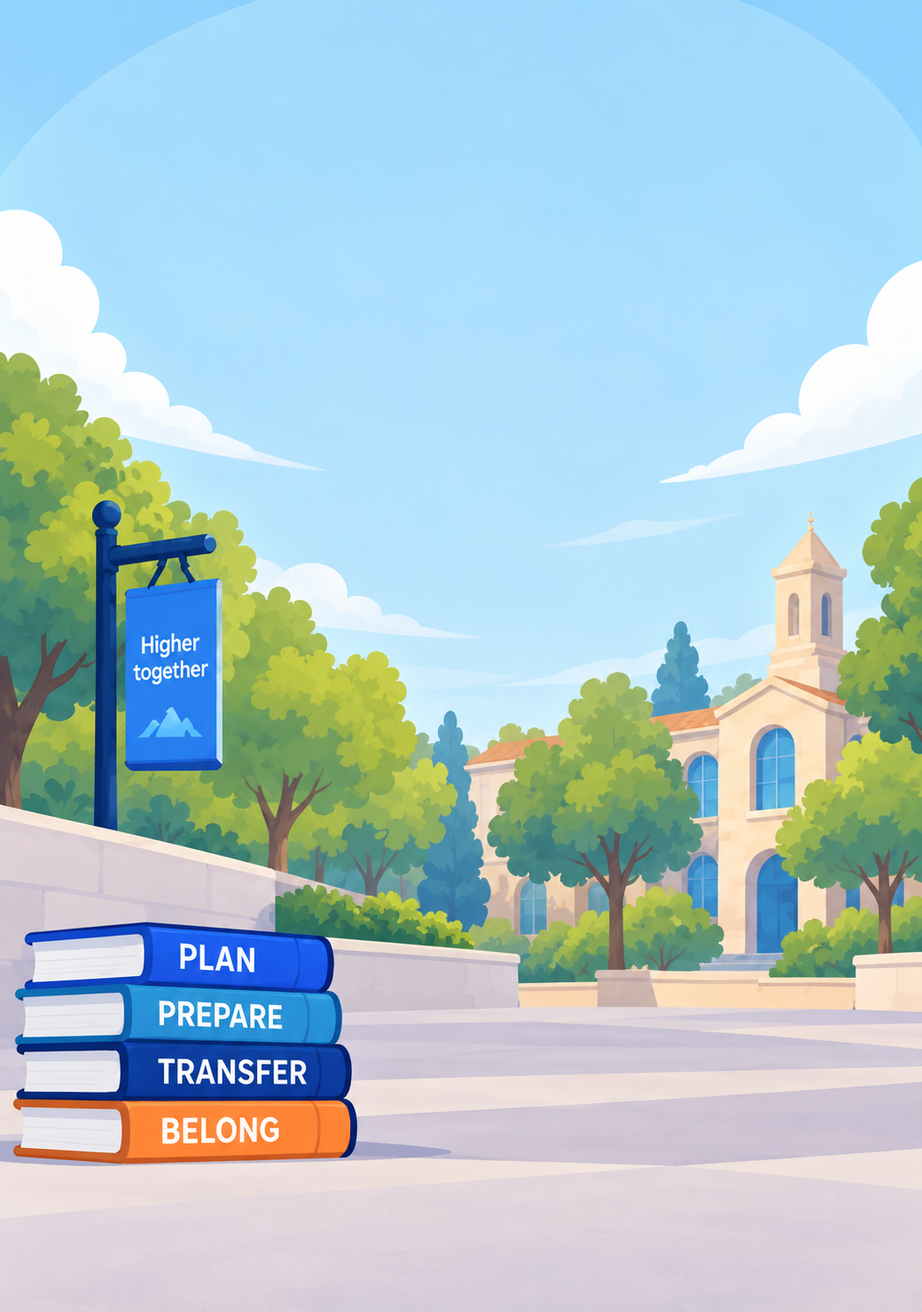
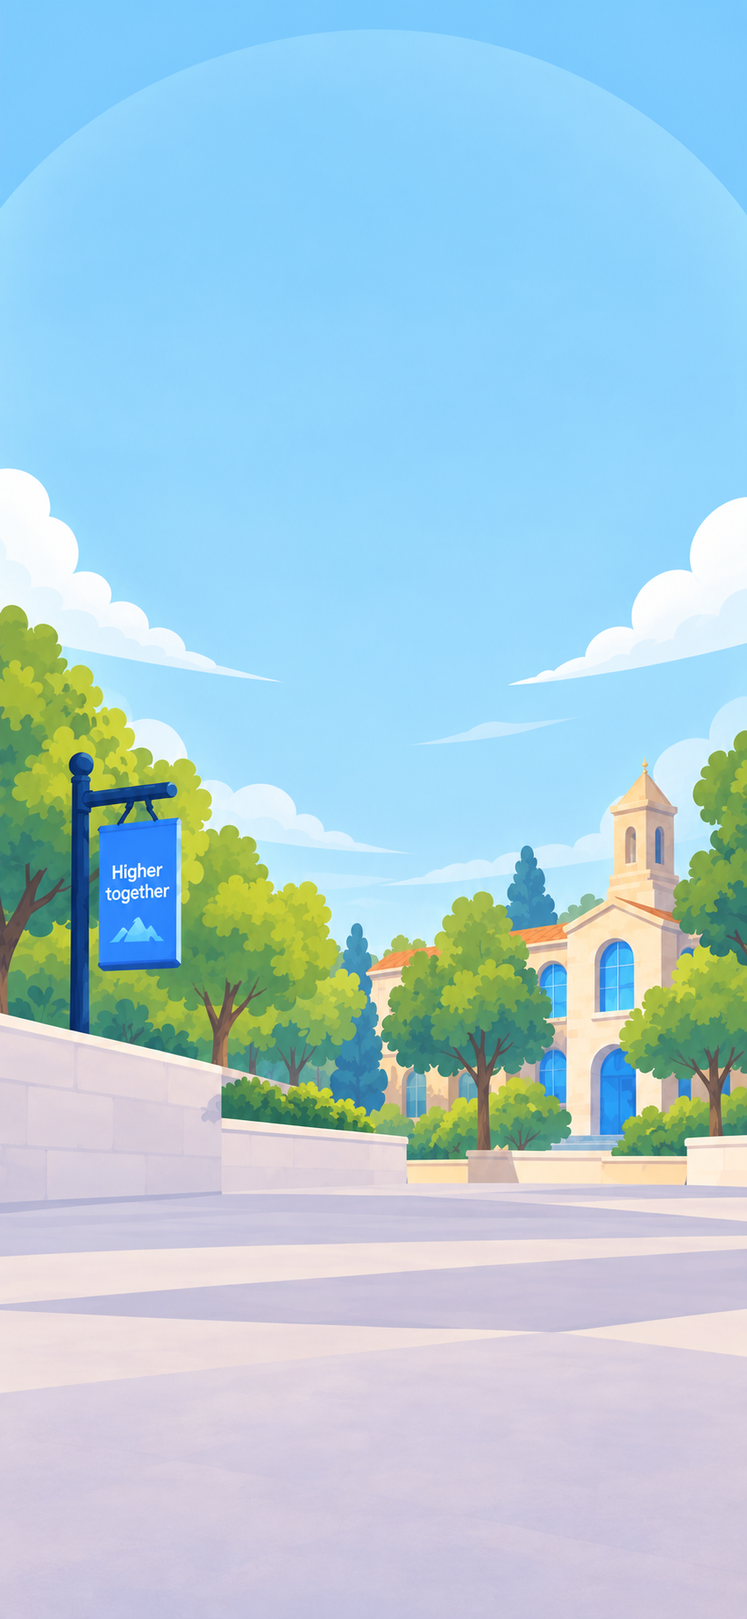
Add rev 2 specs, welcome reference, and new welcome and forgot-password art

diff --git a/docs/specs/01-welcome.md b/docs/specs/01-welcome.md
@@ -15,24 +15,26 @@ Mockup: panel 1 of `../mockup/mockup-4-screens.png`.
 
 ## Layout
 
+Rev 2 (September 2026): the team's full-screen reference (`../mockup/welcome-reference.png`) replaces panel 1 as the target. The campus scene fills the whole screen, and the book stack sits in front of the husky's left side, fully above the button.
+
 ```
-┌───────────────────────────────┐  safe-area top
-│ Demo data                     │  24 strip
+┌───────────────────────────────┐  scene art fills the whole screen,
+│ Demo data                     │  sky painted in, from the very top
 │                               │  24
-│           stackd              │  wordmark, 252 wide, centered
-│           ‿‿‿‿                │
-│                               │  40
+│           stackd              │  wordmark 252 wide, centered
+│           ‿‿‿‿                │  40
 │     Transfer plans,           │  display 38/42, centered
-│      made simple.             │
-│                               │  12
+│      made simple.             │  12
 │   Clear steps, real support,  │  body-lg 18/24, centered
 │  and everything you need…     │
-│                               │
-│  [ full-bleed scene art:      │  anchored to bottom,
-│    campus, sign, husky,       │  behind everything below
-│    book stack ]               │
-│                               │
-│ ░░░░░░░ bottom scrim ░░░░░░░  │
+│                               │  ≥ 16
+│  ▐banner    ╭─husky──╮  🏛    │  husky: bottom on the husky line,
+│  ▐          │        │        │  centered at 54% of the width
+│ ┌books┐     │        │        │  books: in front of the husky,
+│ │PLAN  │────┤        │        │  flush left, bottom on the ground line
+│ │PREPARE│   ╰────────╯        │
+│ │TRANSFER│                    │  books bottom = ground line
+│ │BELONG │                     │  24
 │ (       Get started      >)   │  56, margins 16
 │ Unofficial planning tool. Not │  12/16, 8 below CTA
 │ affiliated with UC, CSU, …    │
@@ -41,17 +43,30 @@ Mockup: panel 1 of `../mockup/mockup-4-screens.png`.
 
 Alignment: everything is centered on the vertical axis. This is the only centered screen in the baseline.
 
+### Two lines everything sits on
+
+- **Ground line** = CTA top − 24. The bottom edge of the book stack sits on it.
+- **Husky line** = ground line − 24. The husky's bottom edge sits on it. (In the reference, the husky's paws sit a little behind and above the front edge of the books.)
+
+At 393 × 852: CTA top 710, ground line 686, husky line 662.
+
 ## Layers, back to front
 
-1. **Background**: `linear-gradient(180deg, var(--sky-200) 0%, var(--sky-100) 45%, var(--sky-50) 100%)`, full screen including under the status bar.
-2. **Scene art** (`welcome-scene`): `position: absolute; left: 0; right: 0; bottom: 0; width: 100%; height: 560px; object-fit: cover; object-position: center bottom;`. On viewports shorter than 760, height is `calc(100dvh - 300px)`, minimum 360.
-3. **Husky** (`husky-welcome`): a separate image so it can animate later. It sits in a zone between the text and the bottom stack, and shrinks to fit that zone, so it never goes behind the text. The mockup has no status bar, so at full size it would overlap the body text on a real phone.
-   - **Zone**: from 16 below the body text down to 176 + safe-area bottom above the bottom edge. Build it as a `flex: 1; min-height: 0` item in the page's column, with `padding-bottom: calc(176px + env(safe-area-inset-bottom))`.
-   - **Husky**: `height: min(380px, 100%)`, `width: auto`, aligned to the zone's bottom, centered with translateX(-5%) (slightly left of center, as drawn, in front of the book stack).
-   - At 393 × 852 the zone is about 265 tall, so the husky renders about 265 × 209. At 430 × 932 it's about 330 tall.
-   - If the zone is under 160 tall (small phones like 320 × 568), hide the husky. The scene art still shows. Use a container query (`container-type: size` on the zone, `@container (max-height: 159px)`).
-4. **Bottom scrim**: `position: absolute; bottom: 0; height: calc(152px + env(safe-area-inset-bottom)); background: linear-gradient(180deg, rgba(234,246,254,0) 0%, rgba(234,246,254,.92) 48px);`. The mockup has no scrim. It's needed because the disclaimer line sits over art. Minimal deviation.
-5. **Content column**: the text at the top and the CTA stack at the bottom.
+1. **Page background**: `--sky-100`, full screen. It only shows while the scene art is loading or if it fails.
+2. **Scene art** (`welcome-scene`): fills the whole screen, including under the status bar. `position: fixed; inset: 0; width: 100%; height: 100%; object-fit: cover; object-position: center bottom;`. The sky is painted into the art, so there is no CSS gradient over it and no seam.
+3. **Husky** (`husky-welcome`): a separate image so it can animate later.
+   - **Zone**: from 16 below the body text down to the husky line. Build it as a `flex: 1; min-height: 0` item in the page's column.
+   - **Size**: `height: min(350px, 100%)`, `width: auto`. At 393 × 852 the zone is about 285 tall, so the husky renders about 285 × 225.
+   - **Position**: bottom edge on the husky line, horizontal center at 54% of the screen width.
+   - If the zone is under 160 tall (small phones like 320 × 568), hide the husky and the books. The scene still shows. Use a container query (`container-type: size` on the zone, `@container (max-height: 159px)`).
+4. **Books** (`welcome-books`): in front of the husky, so the stack covers the husky's left side as drawn.
+   - **Size**: height = the husky's rendered height × 0.38, `width: auto`. At 393 × 852 that's about 108 tall × 126 wide.
+   - **Position**: `left: 0` (the stack runs off the left edge, as drawn), bottom edge on the ground line.
+   - At 393 × 852 the stack's right edge lands about 26 over the husky's left edge. Don't force that number; it comes from the sizes above.
+5. **Bottom scrim**: `position: fixed; bottom: 0; height: calc(64px + env(safe-area-inset-bottom)); background: linear-gradient(180deg, rgba(234,246,254,0) 0%, rgba(234,246,254,.92) 24px);`. It sits under the footer line only, so the disclaimer stays readable over the art. It must not reach the books.
+6. **Content column**: the text at the top and the CTA stack at the bottom.
+
+**Until the rev 2 art exists:** if `welcome-books.png` is missing, the books are whatever is painted into the current scene, and they can't sit in front of the husky. That's expected until the art is re-exported (see `art-assets.md`).
 
 ## Content
 
@@ -60,28 +75,31 @@ Alignment: everything is centered on the vertical axis. This is the only centere
 | Wordmark | `wordmark.svg`, width 252, height auto (~70), top = safe-area top + 24 + 24 (after the demo strip). `role="img"`, `aria-label="Stackd"` |
 | Headline | "Transfer plans, made simple." `display`, `--navy-900`, max-width 320, 40 below the wordmark. Break after "plans," (`<br>` at ≥ 360 wide, natural wrap below that) |
 | Body | "Clear steps, real support, and everything you need to go further." `body-lg`, `--navy-900`, max-width 320, 12 below the headline |
-| CTA | Primary button "Get started" with trailing chevron. Bottom = safe-area bottom + 12 + 16 (footer line) + 8. Navigates to `/sign-up` (`07-create-account.md`) with a 200 ms crossfade |
+| CTA | Primary button "Get started" with trailing chevron. Bottom = safe-area bottom + 12 + footer line height (32 when it wraps to two lines) + 8. Navigates to `/sign-up` (`07-create-account.md`) with a 200 ms crossfade |
 | Footer line | Unofficial footer (see 00), 8 below the CTA |
 
-The book stack labels (PLAN / PREPARE / TRANSFER / BELONG) and the "Higher together" sign are part of the scene art, not live text. All-caps is banned in UI text, but the ban doesn't apply inside illustrations.
+The book stack labels (PLAN / PREPARE / TRANSFER / BELONG) and the "Higher together" sign are part of the art, not live text. All-caps is banned in UI text, but the ban doesn't apply inside illustrations.
 
 ## States
 
-- **Art not loaded**: the gradient shows alone, and text and CTA are fully usable. No spinner. Images use `next/image` with `priority` and `placeholder="empty"`.
+- **Art not loaded**: the `--sky-100` background shows alone, and text and CTA are fully usable. No spinner. Images use `next/image` with `priority` and `placeholder="empty"`.
 - **CTA pressed / focus**: per 00.
 
 ## Motion
 
-One non-triggered moment is allowed on this screen: after the art loads, the husky layer fades from 0 to 1 and moves translateY 12 → 0 over 320 ms `--ease-out`, 120 ms after the scene appears. Nothing else moves on load. Under reduced motion it simply appears.
+One non-triggered moment is allowed on this screen: after the art loads, the husky and books fade together from 0 to 1 and moves translateY 12 → 0 over 320 ms `--ease-out`, 120 ms after the scene appears. Nothing else moves on load. Under reduced motion it simply appears.
 
 ## Accessibility
 
-Reading order: wordmark, headline (`h1`), body, CTA, footer line. The scene and husky have `alt=""`, since they're decorative and the headline carries the meaning.
+Reading order: wordmark, headline (`h1`), body, CTA, footer line. The scene, husky, and books have `alt=""`, since they're decorative and the headline carries the meaning.
 
 ## Test
 
-- At 320 × 568 (iPhone SE 1st gen), headline, body, CTA, and footer line don't overlap, the scene art shrinks, and the husky is hidden.
-- At 393 × 852 the husky's top edge is at least 16 below the body text.
-- At 430 × 932, the art stays anchored to the bottom with no gap under it.
+- At 393 × 852 the scene covers the whole screen, top to bottom, with no band of plain gradient anywhere.
+- At 393 × 852 the whole book stack is visible above the button, with about 24 between the stack and the button.
+- The book stack is in front of the husky and covers part of its left side.
+- The husky's top edge is at least 16 below the body text.
+- At 320 × 568, headline, body, CTA, and footer line don't overlap, and the husky and books are hidden.
+- At 430 × 932, the scene still covers the whole screen.
 - The CTA's bottom edge sits at least 12 above the home indicator.
-- Deleting `welcome-scene` leaves a working screen.
+- Deleting `welcome-scene` leaves a working screen on `--sky-100`.

diff --git a/docs/specs/art-assets.md b/docs/specs/art-assets.md
@@ -26,7 +26,7 @@ Priority key:
 
 | ID | What | Used in | Display size | Deliver | Status | Priority |
 |---|---|---|---|---|---|---|
-| `wordmark` | "stackd" lettering + blue swoosh under it. Navy `#051042`, swoosh `#0364FA` | Welcome (252 wide), Home header (100), Celebration (70) | Aspect ~3.6:1 | One SVG. It must read cleanly at 70 wide. If the swoosh disappears at that size, add a `wordmark-small.svg` with a thicker swoosh | Have (flat) | Demo |
+| `wordmark` | "stackd" lettering + blue swoosh under it. Navy `#051042`, swoosh `#0364FA` | Welcome (252 wide), Sign in and Create account (100), Home header (100), Celebration (70) | Aspect ~3.6:1 once trimmed | One SVG, or a PNG with every fully transparent row and column trimmed off the edges (the art itself untouched). It must read cleanly at 70 wide | Have: `wordmark.png`, 2.8:1 with extra transparent edge, needs trimming | Demo |
 | `app-icon` | Square icon for the installable PWA. Probably the husky head or an "s" mark | Home screen, PWA install | 1024 × 1024 master | PNG master + a `maskable` version with all content inside the center 80% circle | Need | Later (before the first real user installs it) |
 | `favicon` | Simplified mark | Browser tab | 32 | SVG | Need | Later |
 
@@ -37,9 +37,10 @@ The run frames show the character drifts off-model when each pose is generated s
 | ID | What | Used in | Display size | Deliver | Status | Priority |
 |---|---|---|---|---|---|---|
 | `husky-model-sheet` | Reference, not shipped. Front, ¾, side, back. Face markings, ear shapes, hoodie with "S", backpack, tail. Color swatches (fur greys, hoodie `#0364FA` family, outline weight) | All husky art | n/a | PNG or PDF | Need | Demo (before new poses) |
-| `husky-welcome` | Sitting, big open smile, backpack. As drawn on the welcome screen, **without** the book stack, sign, or campus (those are scene layers) | 01 Welcome | 300 × ~380 | PNG 900 × 1140 | Have (flat) | Demo |
+| `husky-welcome` | Sitting, big open smile, backpack, yellow burst marks by its head. **Without** the book stack, sign, or campus | 01 Welcome | up to 276 × 350 | PNG 900 × 1140, transparent | Have | Demo |
+| `husky-forgot` | Upper body like `husky-wave`, head tilted, holding a small key or scratching its head. Bottom edge cut straight across the chest. Same canvas as `husky-wave` so it drops into the same spot | 08 Forgot password | 144 × ~152 | PNG 528 × 558, transparent | Need (uses `husky-wave` until then) | Demo |
 | `husky-home` | Bust, winking, fist raised, hoodie. The **bottom edge cut straight** across the chest (the journey card covers it). No yellow sparkle marks (those are `burst-dashes`) | 02 Home | 160 × ~140 | PNG 480 × 420 | Have (flat) | Demo |
-| `husky-wave` | Upper body, waving paw raised, big smile, hoodie with "S", backpack straps. **Bottom edge cut straight** across the chest (the sheet covers it). No yellow sparkle marks (those are `burst-dashes`) | 06 Sign in, 07 Create account | 176 × ~186 | PNG 528 × 558 | Have (flat) | Demo |
+| `husky-wave` | Upper body, waving paw raised, big smile, hoodie with "S", backpack straps, yellow burst marks painted in. **Bottom edge cut straight** across the chest (the sheet covers it) | 06 Sign in, 07 Create account, 08 until `husky-forgot` exists | 176 × ~186 | PNG 528 × 558, transparent | Have | Demo |
 | `husky-celebrate` | Mid-hop, thumbs up, winking, backpack, blue motion lines around it. **No ground shadow** (drawn in code) | 05 Celebration | 196 × 286 | PNG 588 × 858 | Have (flat) | Demo |
 | `husky-celebrate-rig` | The same pose, split so parts can move. See the layer list below. Either a Rive `.riv` file (preferred) or a layered PSD/Figma file with each layer exported as its own PNG on a shared canvas | 05 Celebration | 196 × 286 canvas | `.riv`, or PNGs at 588 × 858 **each on the full canvas**, so they stack without positioning | Need | Rig |
 | `husky-run` | 6-frame run loop, on-model. Details below | Loading (00) | 72 × 72 | 6 PNGs at 216 × 216, or one strip 1296 × 216, or a `run` state in the Rive file | Have: 8 AI frames that don't cycle (see 05). Fallback exported | Demo (fallback OK), final Later |
@@ -88,7 +89,8 @@ Priority: Later. Listed so they're made from the same sheet when the time comes.
 
 | ID | What | Used in | Display size | Deliver | Status | Priority |
 |---|---|---|---|---|---|---|
-| `welcome-scene` | Full-bleed backdrop: soft clouds, a **generic** campus tower building (not a real campus), trees and hedges, the "Higher together" banner on a lamppost, the book stack reading PLAN / PREPARE / TRANSFER / BELONG, ground. **No husky** (separate layer) and **no sky gradient** (code) | 01 Welcome | 393 × 560 | PNG 1179 × 1680, transparent above the clouds so the CSS gradient shows through. The banner and book-stack text are the only baked text allowed | Have (flat) | Demo |
+| `welcome-scene` | The **whole screen** behind Welcome: sky painted all the way to the top, soft clouds, a **generic** campus tower building (not a real campus), trees and hedges, the "Higher together" banner on a lamppost, ground. **No husky and no book stack** (both are separate layers). The top 45% must be calm, light sky with no detail, because the headline sits there. Keep the banner and the building inside the middle 80% of the width, since narrow phones crop the sides | 01 Welcome | full screen, 393 × 852 | PNG 1179 × 2556, opaque. The banner text is the only baked text allowed | Have: 1179 × 1680 with the books painted in. Needs re-export | Demo |
+| `welcome-books` | Only the book stack: PLAN / PREPARE / TRANSFER / BELONG, as drawn. Its left end may run off the left edge, as in the reference | 01 Welcome, in front of the husky | about 126 × 108 | PNG 480 × 410, transparent | Need | Demo |
 | `welcome-scene` layered | The same, split: `clouds`, `building`, `trees`, `banner`, `books`, `ground`, each on the full canvas | 01 (later subtle parallax) | same | PNGs on a shared canvas | Need | Later |
 | `home-clouds` | Very pale cloud band, no hard edges | 02 Home and 06 Sign in, top | 393 × 300 | PNG 1179 × 900, transparent | Have (flat) | Demo (can ship without; the screen works with the gradient alone) |
 | `celebrate-clouds-top` | Cloud band for the top of the celebration | 05 | 393 × 220 | PNG 1179 × 660 | Have (flat) | Demo |
@@ -127,10 +129,14 @@ Add one row per university as coverage grows. No screen shows a **community coll
 
 | ID | What | Used in | Display size | Get it from | Status | Priority |
 |---|---|---|---|---|---|---|
-| `logo-apple` | Apple logo, black | 06 Continue with Apple | 20 tall | Apple's Sign in with Apple resources (developer.apple.com) | Need | Demo |
-| `logo-google` | Google "G", 4-color | 06 Continue with Google | 22 × 22 | Google Identity branding guidelines (developers.google.com/identity) | Need | Demo |
+| `logo-apple` | Apple's **left-aligned** logo file, black logo, for white buttons | 06, 07 Continue with Apple | full button height, 48 | Apple Design Resources → Sign in with Apple (developer.apple.com/design/resources) | Downloaded, not placed | Demo |
+| `logo-google` | Google's standard-color "G" | 06, 07 Continue with Google | 20 × 20 | Google's Sign in with Google branding page → download bundle (developers.google.com/identity/branding-guidelines) | Downloaded, not placed | Demo |
 
-SVG, unmodified: no recoloring, cropping, or outlines added. Save to `public/art/brand/`.
+Save to `public/art/brand/`. How to take each one out of its kit:
+
+- **Apple**: use the left-aligned logo SVG exactly as supplied. It already contains the padding Apple requires, which is why it looks like a box with a small apple inside. Scale it to the button's height (48) and don't crop it.
+- **Google**: the bundle only has whole buttons and icon buttons. Google's guidelines say a custom-size logo should start from one of the logo sizes in the bundle, so take the icon-only SVG and keep only the four colored G paths, exactly as they are. Remove the button's background rectangle and border. Don't change the paths, colors, or proportions.
+- Both logos must sit on a pure white button (`--white`).
 
 ## 7 · Not art (built in code or from the icon set)
 
@@ -144,8 +150,9 @@ In the order they unblock screens:
 2. `husky-home`: Home
 3. `campus-uc-davis` without lettering, plus `campus-generic`: University
 4. `mentor-avatar-01`: Essays
-5. `husky-welcome` + `welcome-scene`: Welcome
+5. `husky-welcome`, `welcome-scene` (full-screen re-export), `welcome-books`: Welcome
 6. `husky-wave`, `logo-apple`, `logo-google`: Sign in and Create account
+6b. `husky-forgot`: Forgot password
 7. `husky-celebrate`, `balloon-*` ×3, `celebrate-clouds-*` ×2, `confetti-static`, `burst-dashes`: Celebration
 8. `husky-model-sheet`: before any new pose is drawn
 

diff --git a/docs/specs/08-forgot-password.md b/docs/specs/08-forgot-password.md
@@ -1,6 +1,6 @@
 # 08 · Forgot password
 
-Route: `/forgot-password`. No tab bar. No mockup: built from the sign-in screen's parts (`06-sign-in.md`) minus the husky, the wordmark, the social buttons, and the divider. It has two states on the same route: the request form, and "Check your email".
+Route: `/forgot-password`. No tab bar. No mockup: built from the sign-in screen's parts (`06-sign-in.md`) minus the wordmark, the social buttons, and the divider. Rev 2: the husky is back (the screen read as empty without it), and the copy is shorter so the text clears it. It has two states on the same route: the request form, and "Check your email".
 
 ## Mobbin references
 
@@ -10,23 +10,18 @@ Route: `/forgot-password`. No tab bar. No mockup: built from the sign-in screen'
 | [Fresha venue detail](https://mobbin.com/screens/a659b05e-4558-4a00-827f-927eb225db13) | 44 floating circle back button at safe-top + 8, left 16 (also used on 03) |
 | [Grab drafts, empty](https://mobbin.com/screens/83c0a32d-65e3-441d-9d8a-c532c338105e) | Confirmation layout: centered illustration, bold title, one muted line. Our empty state (00) already follows this |
 
-## Why no husky
-
-This screen is a short errand for a student who's already stuck. One field, one button, nothing to look past. The husky stays on the screens that greet the student (Welcome, Sign in, Create account).
-
 ## Request state layout
 
 ```
-┌───────────────────────────────┐  --sky-100 → --sky-50, no clouds
+┌───────────────────────────────┐  same background as 06
 │ Demo data                     │
 │ (←)                           │  circle button 44, 8 below strip
-│                               │  24
-│ Forgot your                   │  display 38/42, x 24
-│ password?                     │
-│ Enter the email you signed up │  body-md 16/22, 8 below, max 330
-│ with and we'll send a link to │
-│ reset your password.          │
-│╭─────────────────────────────╮│  24, sheet as in 06
+│                     ╭husky─╮  │  24
+│ Reset your          │ 144  │  │  display 38/42, x 24, max 200
+│ password            │ wide │  │
+│ We'll email you a   │      │  │  body-md 16/22, 8 below, max 190
+│ link to reset it.   ╰──────╯  │  24
+│╭─────────────────────────────╮│  sheet as in 06, covers husky's base
 ││ Email                       ││  pad 20
 ││ [✉  you@example.com       ] ││
 ││ (     Send reset link     >) ││  16, primary 56
@@ -40,10 +35,11 @@ Alignment: left, as on 06. The page never needs to scroll at 393 × 852.
 
 | Element | Spec |
 |---|---|
-| Background | Same gradient as 06, without the clouds art |
+| Background | Same as 06 |
 | Back | Circle button (00), `ArrowLeft` bold 22, `aria-label="Back"`, top = strip bottom + 8, left 16. History back; with no history, `/sign-in` |
-| Headline | "Forgot your password?" `display`, `--navy-900`, `h1`, x 24, 24 below the back button, max-width 240 so it breaks after "your" |
-| Subtitle | "Enter the email you signed up with and we'll send a link to reset your password." `body-md` `--navy-900`, 8 below, max-width 330 |
+| Headline | "Reset your password" `display`, `--navy-900`, `h1`, x 24, 24 below the back button, max-width 200 so it breaks after "your". ("Forgot your" is too wide to clear the husky.) The link that opens this screen still says "Forgot password?" |
+| Subtitle | "We'll email you a link to reset it." `body-md` `--navy-900`, 8 below, max-width 190 |
+| Husky | `husky-forgot`, width 144, height auto (~152). `position: absolute; right: 16px;` with its bottom edge 4 below the sheet's top edge, so the sheet covers the cut, exactly as on 06. `alt=""`. Until `husky-forgot.png` exists, use `husky-wave.png` at the same size. Hidden below 360 wide |
 | Sheet | Same as 06 (inset 16, radius 20 top, runs to the bottom, 20 top padding, content at x 32), 24 below the subtitle |
 | Email field | Identical to the email field on 06. `enterkeyhint="send"`. If the student typed an email on Sign in, it arrives prefilled (passed in memory, never in the URL) |
 | Button | Primary "Send reset link", 16 below the field |
@@ -80,12 +76,14 @@ Replaces the sheet's contents after `auth.sendPasswordReset` returns `ok`. Same 
 
 | Element | Spec |
 |---|---|
-| Headline | "Check your email" (same style and max-width as the request state) |
-| Subtitle | "We sent a reset link to {email}." The email in weight 600, `word-break: break-all` so a long address wraps |
+| Headline | "Check your email" (same style and max-width as the request state). The husky stays |
+| Subtitle | "We sent a link to {email}." Max-width 190. The email in weight 600, `word-break: break-all` so a long address wraps |
 | Icon | 72 circle, `--tint-sky`, `EnvelopeSimpleOpen` fill 32 `--blue-600`, centered, 32 below the sheet top, `aria-hidden` |
 | Body | "If there's an account for this email, the link will arrive in a few minutes. Check your spam folder too." `body` `--slate-600`, centered, max-width 280, 16 below the icon |
 | Button | Primary "Back to sign in", 24 below the body. Goes to `/sign-in`, replacing this history entry, email carried over |
-| Resend | Text link, centered, 12 below the button. For 30 s it's disabled and reads "Send again in {n}s" in `--slate-600` (counts down each second, `aria-live="off"` so screen readers aren't flooded). Then it reads "Send again" in `--blue-600`. Tapping it calls `sendPasswordReset` again and restarts the 30 s. A toast confirms: "Reset link sent" |
+| Resend | Text link, centered, 12 below the button. For 30 s it's disabled and reads "Send again in {n}s" in `--slate-600` (counts down each second, `aria-live="off"` so screen readers aren't flooded). Then it reads "Send again" in `--blue-600`. Tapping it calls `sendPasswordReset` again and restarts the 30 s. A toast confirms: "Reset link sent". If the resend fails, a toast says "Couldn't send the link. Check your connection, then try again.", and "Send again" is available immediately (no countdown). The screen doesn't change state |
+
+Toasts on this screen sit 12 above the safe-area bottom, since there's no tab bar and no pinned button.
 
 **Transition**: the sheet contents and the headline crossfade over 200 ms. Focus moves to the new headline (`tabindex="-1"`). Under reduced motion, the swap is instant.
 
@@ -93,7 +91,7 @@ The back button in this state returns to the request state, with the email still
 
 ## Motion
 
-No non-triggered motion on this screen. Field, error, and state-swap motion only, as above.
+The husky fades in as on 06 (the one non-triggered moment). Field, error, and state-swap motion only, as above.
 
 ## Test
 
@@ -103,3 +101,4 @@ No non-triggered motion on this screen. Field, error, and state-swap motion only
 - "Send again" is disabled for 30 s, then sends and restarts the count.
 - Email `offline@example.com`: the connection error, and no state change.
 - Any email that isn't registered gets exactly the same confirmation as one that is.
+- The headline and subtitle never run under the husky at 360 wide and up.

diff --git a/docs/specs/00-foundations.md b/docs/specs/00-foundations.md
@@ -203,7 +203,7 @@ Row height 44, bottom 1 px `--border` spanning full width. Label `segment`, acti
 
 ### Tab bar
 
-Fixed to the bottom. Height 56 + `env(safe-area-inset-bottom)`. `--surface`, top edge per Elevation. Four equal columns. Each column: 8 top padding, icon 28, 2 gap, label `tab`. Active: icon fill `--blue-600`, label `--blue-600`. Inactive: icon regular `--slate-400`, label `--slate-600`. No animation on switch. Each tab keeps its own scroll position. Hidden on pushed screens (the university screen) and on the celebration.
+Fixed to the bottom. Height 56 + `env(safe-area-inset-bottom)`. `--surface`. The top edge line is drawn with `box-shadow: 0 -1px 0 var(--border), 0 -8px 24px rgba(5,16,66,.04)`, so it takes no space inside the 56. Four equal columns. Each column: 6 top padding, icon 28, 2 gap, label `tab` (16 line), which leaves 4 below the label when there's no home indicator. Active: icon fill `--blue-600`, label `--blue-600`. Inactive: icon regular `--slate-400`, label `--slate-600`. No animation on switch. Each tab keeps its own scroll position. Hidden on pushed screens (the university screen) and on the celebration.
 
 ### Text field
 
@@ -220,7 +220,7 @@ Label above, field below, optional message line under the field.
 
 ### Social button
 
-Height 48, `--r-sm`, background `--surface`, 1 px `--border-strong`. Content is one centered group: logo, 16 gap, label `button` (16/20 700) `--navy-900`. Pressed: background `--surface-pressed`, `scale(0.98)`, 120 ms. Disabled: opacity 0.4. Logos come from the providers' official kits and keep their own colors.
+Height 48, `--r-sm`, background `--white` (Apple and Google both require their logo on white), 1 px `--border-strong`. Content is one centered group: logo, 12 gap, label `button` (16/20 700) `--navy-900`. Pressed: `scale(0.98)` and a `--surface-pressed` overlay at 60% opacity, so the logo's white background rule still holds, 120 ms. Disabled: opacity 0.4. Logos come from the providers' official kits and keep their own colors and proportions.
 
 ### Labelled divider
 
@@ -255,7 +255,7 @@ This is also used for every screen the mockup didn't draw. Centered column, max-
 The empty state above, used for every destination that isn't built yet. It must never trap the student: every version has a way out.
 
 - **Back button**: circle button (00) with `ArrowLeft`, top = demo strip bottom + 8, left 16, `aria-label="Back"`. It uses history back, and when there's no history it goes to the fallback in the table below.
-- The column sits 120 below the back button.
+- The empty-state icon's top edge sits 120 below the back button's bottom edge.
 - The version depends on where the student is:
 
 | Where | Tab bar | Title | Body | Button → goes to |

diff --git a/docs/specs/06-sign-in.md b/docs/specs/06-sign-in.md
@@ -64,7 +64,7 @@ Alignment: top block left-aligned at x 24. Sheet content left-aligned at x 32, e
 | Headline | "Welcome back!" `display` (38/42, 900), `--navy-900`, `h1`, x 24, 24 below the wordmark, max-width 190 so it breaks after "Welcome" as drawn |
 | Subtitle | "Your transfer journey is waiting." `body-md` (16/22, 400), `--navy-900`, 8 below the headline, max-width 160 so it breaks after "journey" as drawn |
 | Husky | `husky-wave`, width 176, height auto (~186). `position: absolute; right: 16px;` bottom edge 4 below the sheet's top edge, so the sheet covers the cut (sheet z-index 1, husky 0). `alt=""` |
-| Burst dashes | `burst-dashes.svg`, 28 × 28, `--yellow-400`, 8 left of the husky's raised paw: left = husky left + 12, top = husky top + 8, rotated -20° |
+| Burst dashes | Painted into `husky-wave.png`. Don't draw a separate `burst-dashes` here |
 
 At viewports under 360 wide, the husky shrinks to width 144 and the headline's max-width stays 190.
 
@@ -114,10 +114,10 @@ Social button component (00), 48 tall, gap 12, the first one 12 below the divide
 
 | Button | Logo | Label | Action |
 |---|---|---|---|
-| Apple | Apple logo, black `#000000`, 20 tall | "Continue with Apple" | `auth.signInWithOAuth("apple")` |
-| Google | Google "G", official 4-color, 22 × 22 | "Continue with Google" | `auth.signInWithOAuth("google")` |
+| Apple | Apple's official left-aligned logo file (black logo, for white buttons), shown at the button's full height, 48. The file includes Apple's own padding, so the visible apple is about 17 × 21 | "Continue with Apple" | `auth.signInWithOAuth("apple")` |
+| Google | Google's official standard-color "G", taken from the icon in Google's download bundle, 20 × 20 | "Continue with Google" | `auth.signInWithOAuth("google")` |
 
-The logos come from Apple's and Google's official brand kits, never redrawn (see `art-assets.md`). Before public launch, check both buttons against Apple's Sign in with Apple guidelines and Google's sign-in branding guidelines. A native iOS app that offers Google sign-in must also offer Sign in with Apple, which the mockup already does.
+The logos come from Apple's and Google's official brand kits, never redrawn (see `art-assets.md → Provider logos` for exactly how to take them out of the kits). Both brands require their logo on a white button, which is why the social button is `--white`, not `--surface`. Before public launch, check both buttons against Apple's Sign in with Apple guidelines and Google's sign-in branding guidelines. A native iOS app that offers Google sign-in must also offer Sign in with Apple, which the mockup already does.
 
 ## Bottom line
 

diff --git a/docs/specs/07-create-account.md b/docs/specs/07-create-account.md
@@ -15,7 +15,7 @@ Route: `/sign-up`. No tab bar. No mockup: this screen is the sign-in screen (`06
 | Part | 06 Sign in | 07 Create account |
 |---|---|---|
 | Headline | Welcome back! | Let's get started! (breaks after "get" at max-width 190) |
-| Subtitle | Your transfer journey is waiting. | Save your plan and pick up where you left off. |
+| Subtitle | Your transfer journey is waiting. (max-width 160) | Save your plan and pick up where you left off. (max-width 180, so it's two lines) |
 | Fields | Email, Password | First name, Email, Password |
 | Password `autocomplete` | `current-password` | `new-password` |
 | Under the password field | "Forgot password?" link | Hint line "At least 8 characters." |

diff --git a/docs/specs/README.md b/docs/specs/README.md
@@ -26,6 +26,7 @@ The source drawings live in `docs/mockup/`, one level up. The specs expect these
 | `mockup-4-screens.png` | Welcome, Home, UC Davis requirements, Essays |
 | `mockup-task-complete.png` | "Great job!" celebration |
 | `mockup-sign-in.png` | Sign in |
+| `welcome-reference.png` | Full-screen Welcome target (rev 2): scene fills the screen, books in front of the husky |
 | `husky-run-sheet.png` | The 8-frame run attempt |
 
 Create account and forgot password have no mockups. Their specs are built from the sign-in drawing and say exactly what differs.
